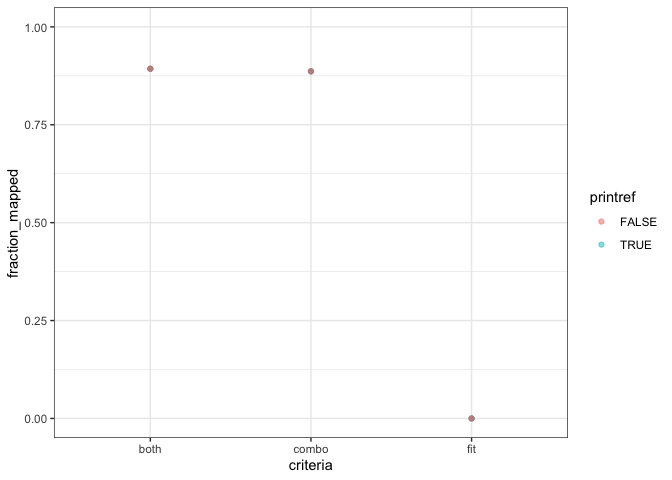
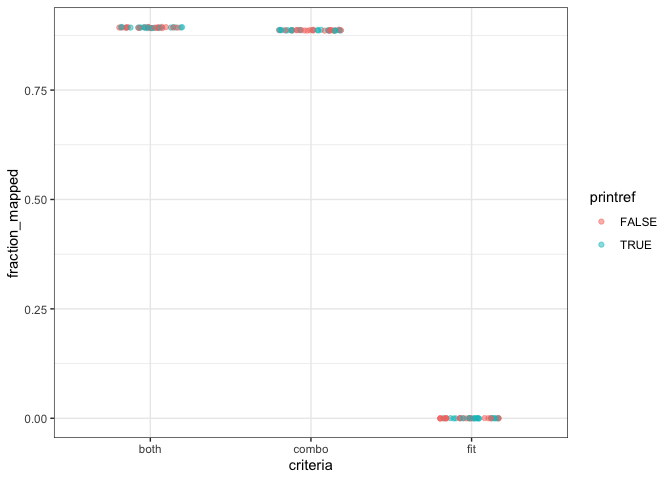
Plot criteria results w/ 20 seeds

diff --git a/exploratory/2021/test_criteria.md b/exploratory/2021/test_criteria.md
@@ -23,16 +23,30 @@ mutate_perf <- function(dat) {
 dat <- read_tsv(here('subworkflows', '3_fit_sample_split', 'results', 
                      'optifit_crit_check.tsv')) %>% 
   mutate_perf() %>% 
-  select(dataset, printref, criteria, mcc, fraction_mapped, sec, mem_gb)
+  select(dataset, printref, criteria, mcc, fraction_mapped, sec, mem_gb) 
 ```
+
+Sarah W’s description of the criteria parameter:
+
+“We have a criteria parameter that indicates when the reads should be
+moved. We calculated two mcc coefficients. One for the query reads
+(ignoring the references) and one for the query reads and reference
+OTUs. The screen output shows this as “combo” and “fit” lines. By
+default we move a read if either metric improves. The criteria parameter
+lets you indicate you only want to move if the one or the other
+improves. Options are “both” (default), “combo” or “fit”. In practice we
+found “both” gave the best overall results."
+
+I ran the 3 criteria options with the human dataset at 50/50 ref/query
+split chosen by simple random sample, method=closed, repeated for 20
+seeds.
 
 ## OTU Quality
 
 ``` r
 dat %>% 
   ggplot(aes(x = criteria, y = mcc, color = printref)) +
-  geom_point(alpha = 0.5) +
-  ylim(0, 1)
+  geom_jitter(alpha = 0.5, width = 0.2) 
 ```
 
 ![](figures/crit_mcc-1.png)<!-- -->
@@ -42,8 +56,17 @@ dat %>%
 ``` r
 dat %>% 
   ggplot(aes(x = criteria, y = fraction_mapped, color = printref)) +
-  geom_point(alpha = 0.5) +
-  ylim(0, 1)
+  geom_jitter(alpha = 0.5, width = 0.2)
 ```
 
 ![](figures/crit_map-1.png)<!-- -->
+
+## Runtime
+
+``` r
+dat %>% 
+  ggplot(aes(x = criteria, y = sec, color = printref)) +
+  geom_jitter(alpha = 0.5, width = 0.2)
+```
+
+![](figures/crit_runtime-1.png)<!-- -->
